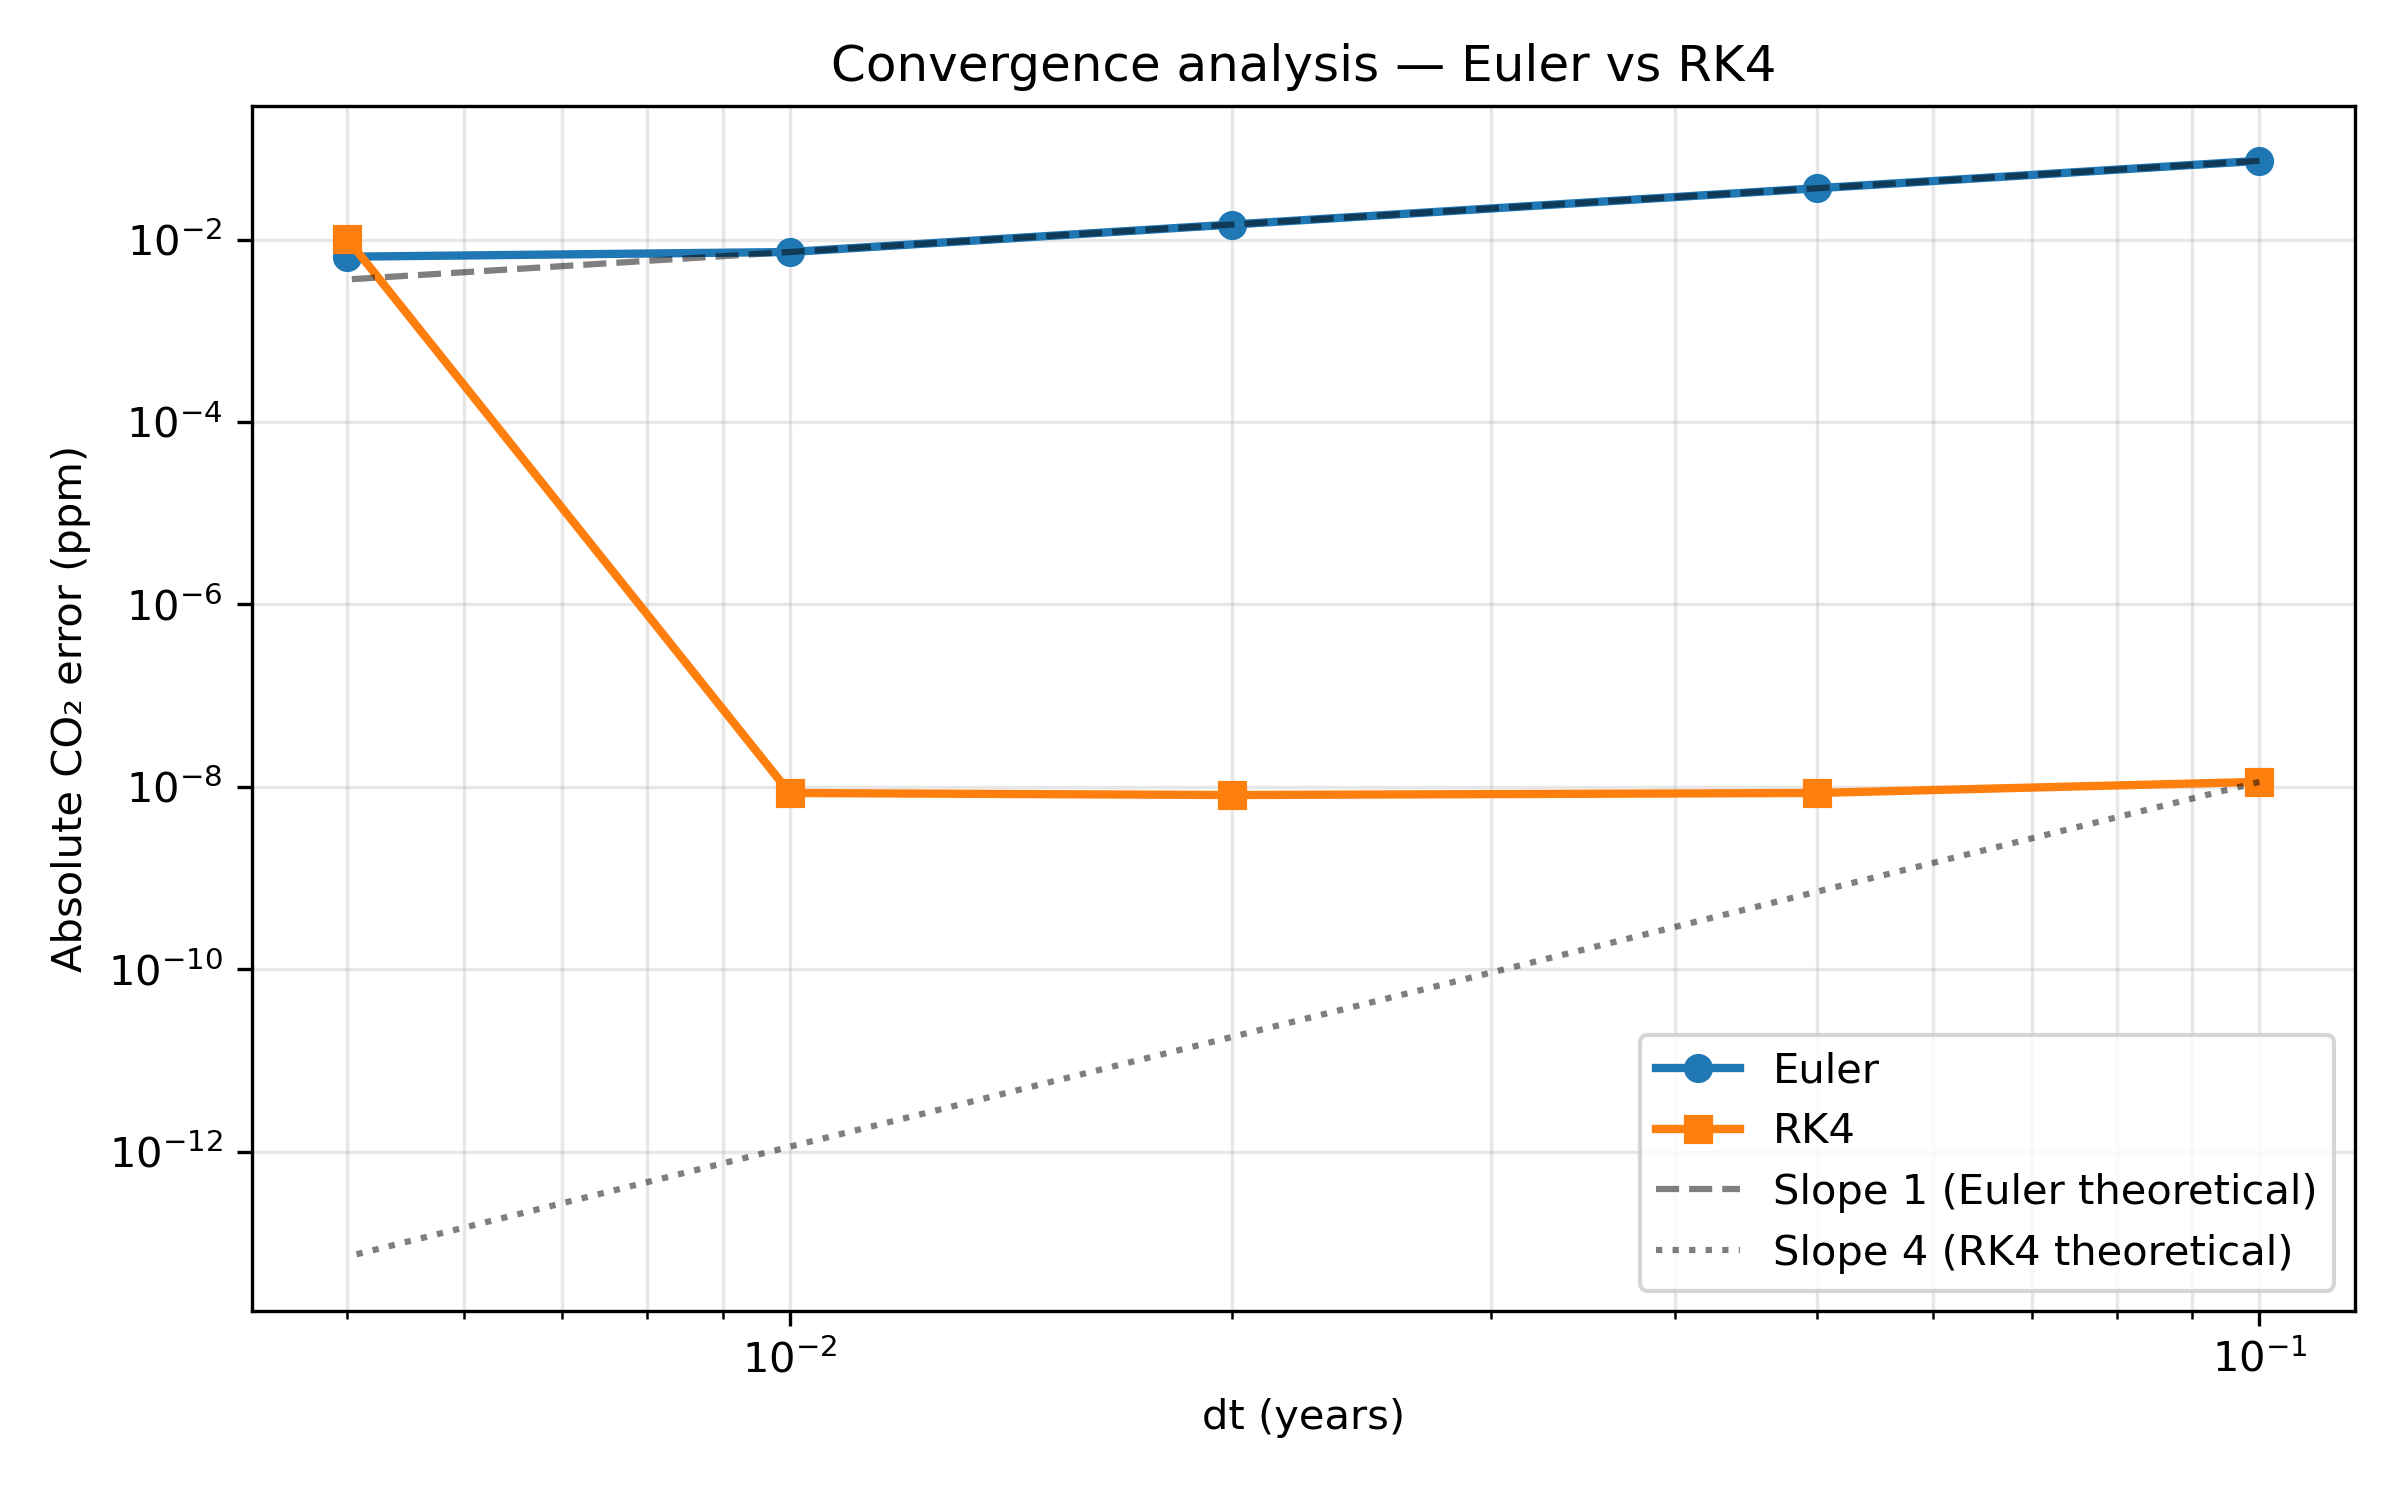
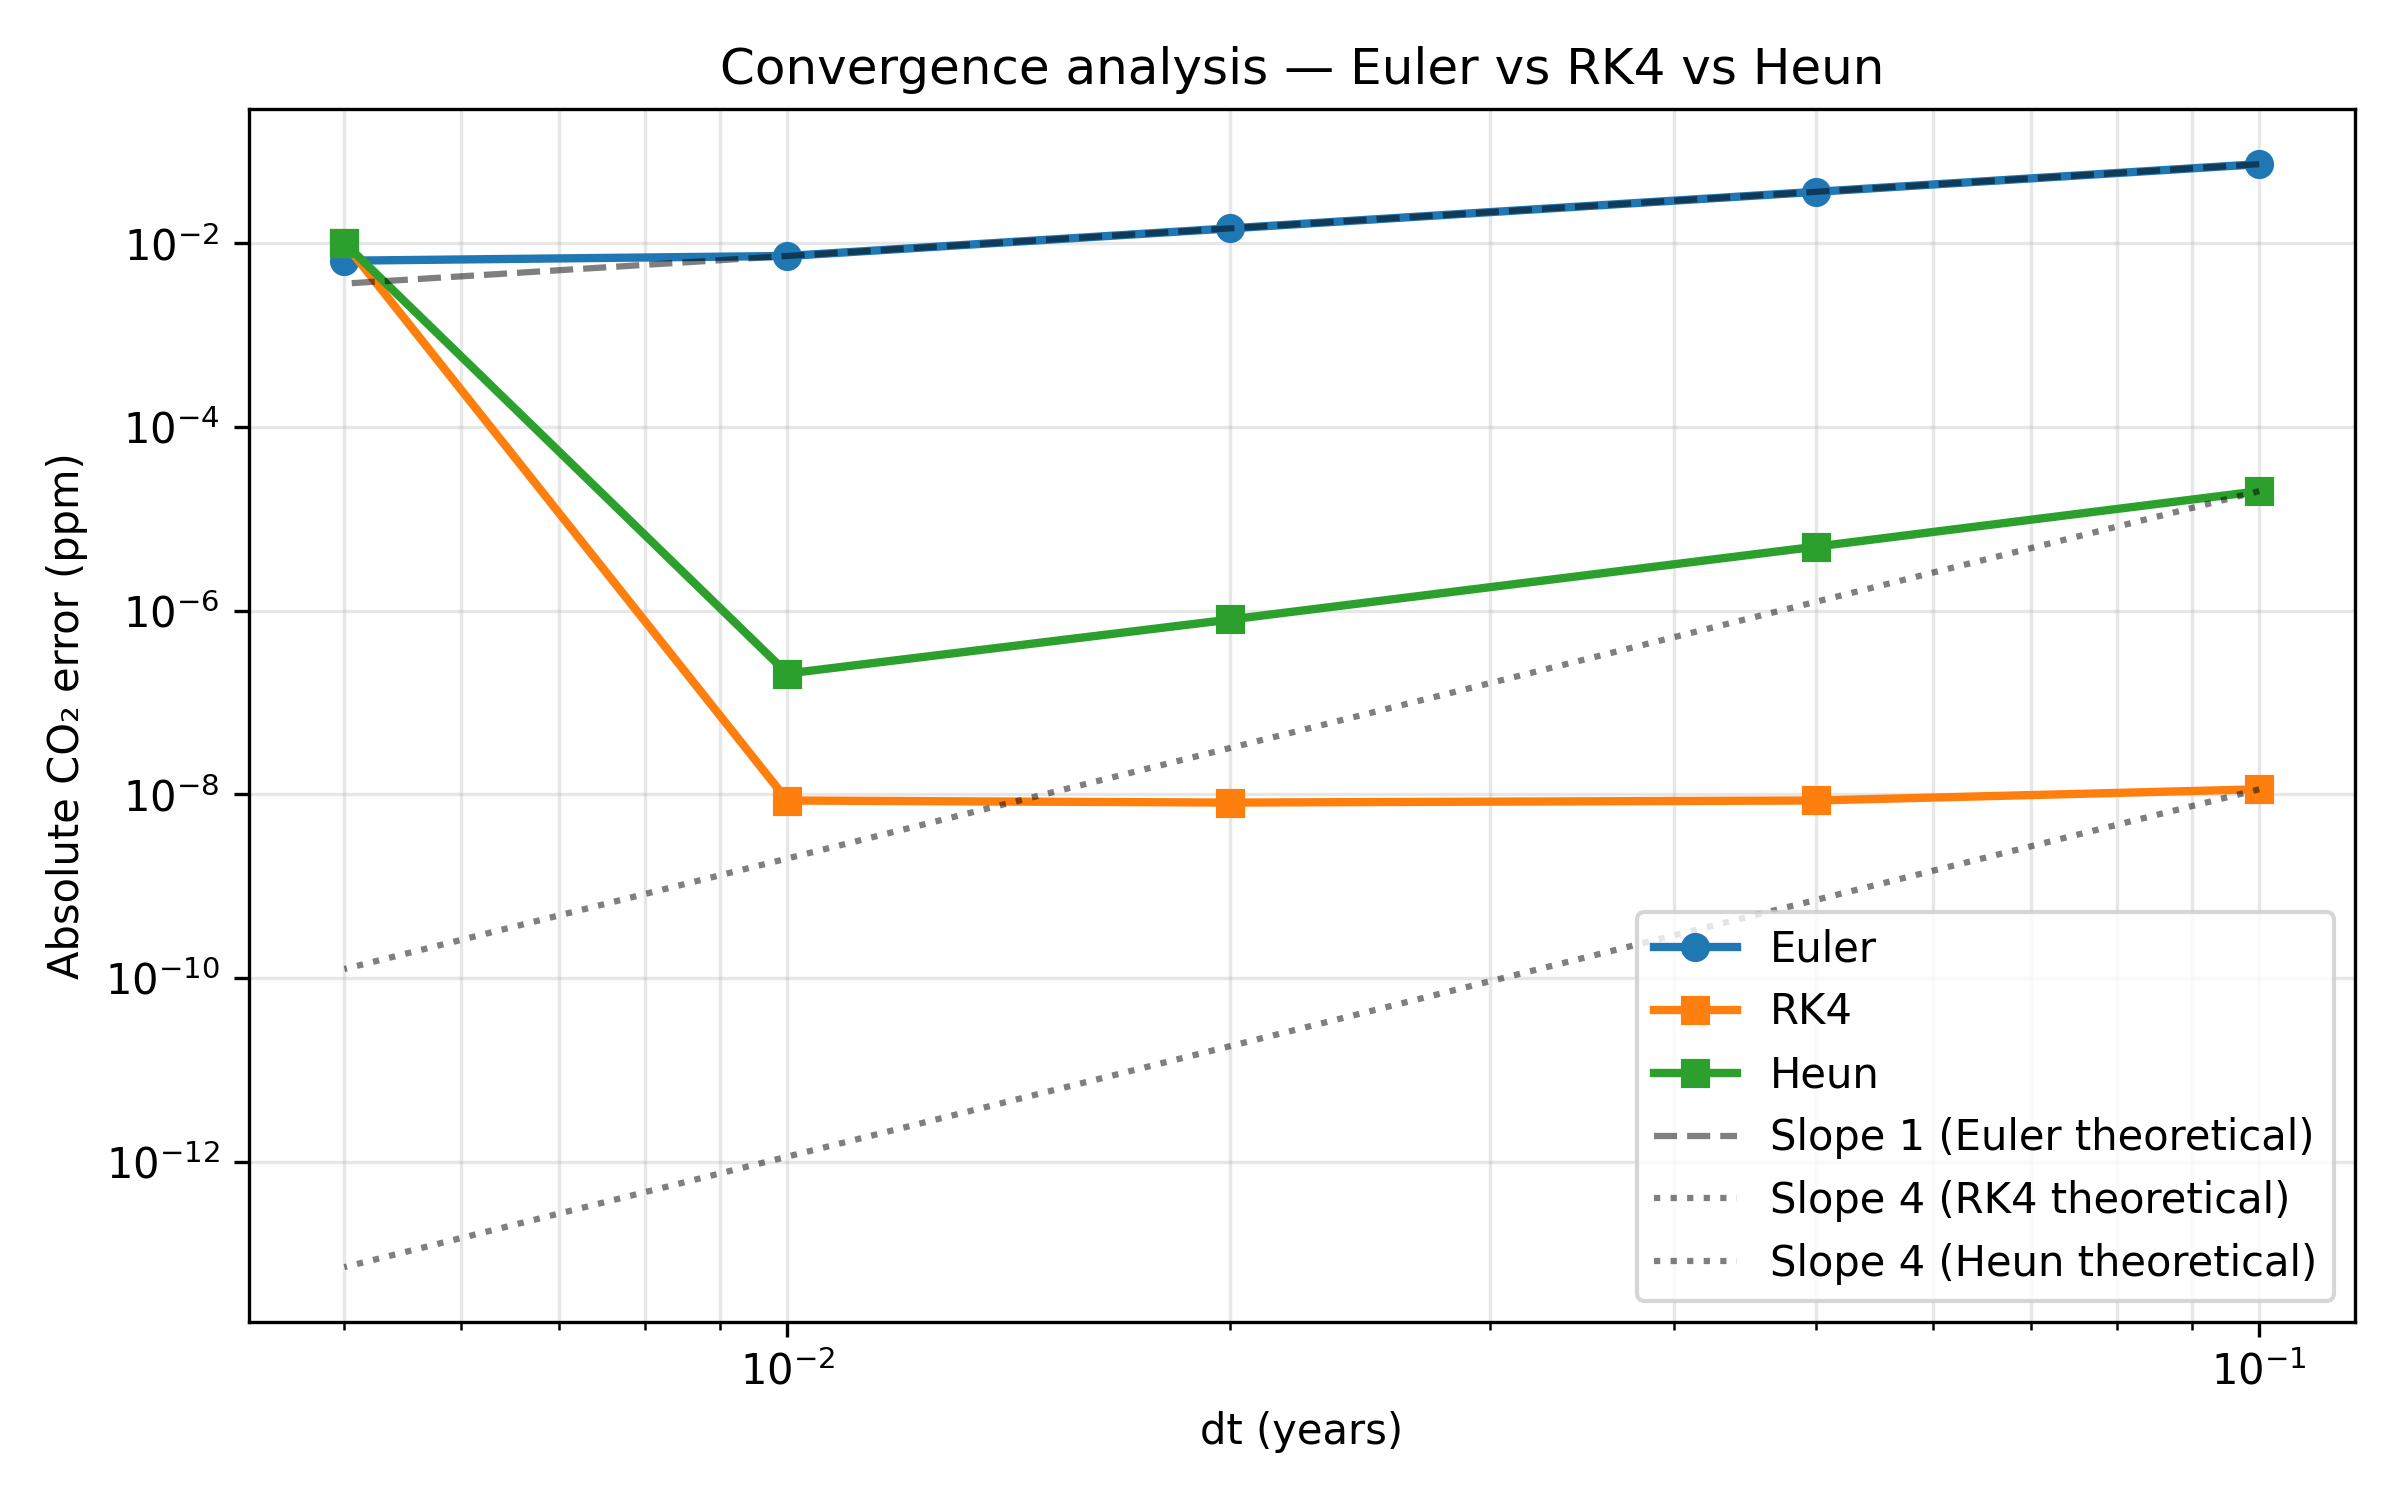
Ajout de la methode de Heun

diff --git a/carbone.py b/carbone.py
@@ -351,6 +351,19 @@ def run_simulation_rk4(x0, t0, tf, dt):
         results[i] = step_rk4(results[i-1], times[i-1], dt)
     return times, results
 
+def step_heun(x,t,dt):
+    k1 = derivative(x, t)
+    k2 = derivative(x + dt* k1, t + dt)
+    return x + (dt / 2) * (k1 + k2)
+
+def run_simulation_heun(x0, t0, tf, dt):
+    times = np.arange(t0, tf + dt, dt)
+    results = np.zeros((len(times), len(x0)))
+    results[0] = x0
+    for i in range(1, len(times)):
+        results[i] = step_heun(results[i-1], times[i-1], dt)
+    return times, results
+
 def comparison_euler_rg4(): # comparison between the two methods.
     t0 = 1850
     tf = 2030
@@ -360,20 +373,23 @@ def comparison_euler_rg4(): # comparison between the two methods.
     for dt in [2.0, 1.0, 0.1]:
         times_euler, results_euler = run_simulation(x0, t0, tf, dt)
         times_rk4,   results_rk4   = run_simulation_rk4(x0, t0, tf, dt)
+        times_heun,   results_heun   = run_simulation_heun(x0, t0, tf, dt)
 
         co2_euler = np.array([AtmCO2(a) for a in results_euler[:, 0]])
         co2_rk4   = np.array([AtmCO2(a) for a in results_rk4[:, 0]])
+        co2_heun   = np.array([AtmCO2(a) for a in results_heun[:, 0]])
 
         # On ignore les valeurs aberrantes d'Euler pour l'affichage
         co2_euler = np.clip(co2_euler, 0, 600)
 
         plt.plot(times_euler, co2_euler, label=f'Euler dt={dt}', linewidth=2)
         plt.plot(times_rk4,   co2_rk4,   label=f'RK4 dt={dt}',   linewidth=2, linestyle='--')
+        plt.plot(times_heun,   co2_heun,   label=f'Heun dt={dt}',   linewidth=2)
 
     plt.ylim(250, 600)
     plt.xlabel('Année')
     plt.ylabel('CO₂ (ppm)')
-    plt.title('Euler vs RK4 regarding the step dt')
+    plt.title('Euler vs RK4 vs Heun regarding the step dt')
     plt.legend()
     plt.grid(alpha=0.3)
     plt.tight_layout()
@@ -395,18 +411,22 @@ def analyse_convergence():
 
     errors_euler = []
     errors_rk4   = []
+    errors_heun  = []
     
     for dt in dts:
         _, res_euler = run_simulation(x0, t0, tf, dt)
         _, res_rk4   = run_simulation_rk4(x0, t0, tf, dt)
+        _, res_heun   = run_simulation_heun(x0, t0, tf, dt)
         
         errors_euler.append(abs(AtmCO2(res_euler[-1, 0]) - co2_ref_final))
         errors_rk4.append(abs(AtmCO2(res_rk4[-1, 0]) - co2_ref_final))
+        errors_heun.append(abs(AtmCO2(res_heun[-1, 0]) - co2_ref_final))
     
     # Log-log plot
     plt.figure(figsize=(8, 5))
     plt.loglog(dts, errors_euler, 'o-', label='Euler', linewidth=2)
     plt.loglog(dts, errors_rk4,   's-', label='RK4',   linewidth=2)
+    plt.loglog(dts, errors_heun,   's-', label='Heun',   linewidth=2)
     
     # Reference slopes anchored at the first point (dt=0.1) for better visualization
 
@@ -415,10 +435,12 @@ def analyse_convergence():
                'k--', alpha=0.5, label='Slope 1 (Euler theoretical)')
     plt.loglog(dts_arr, errors_rk4[0]   * (dts_arr / dts[0])**4,
                'k:',  alpha=0.5, label='Slope 4 (RK4 theoretical)')
+    plt.loglog(dts_arr, errors_heun[0]   * (dts_arr / dts[0])**4,
+               'k:',  alpha=0.5, label='Slope 4 (Heun theoretical)')
     
     plt.xlabel('dt (years)')
     plt.ylabel('Absolute CO₂ error (ppm)')
-    plt.title('Convergence analysis — Euler vs RK4')
+    plt.title('Convergence analysis — Euler vs RK4 vs Heun')
     plt.legend()
     plt.grid(alpha=0.3, which='both')
     plt.tight_layout()
@@ -429,3 +451,4 @@ def analyse_convergence():
     plt.show()
 
 analyse_convergence()
+
